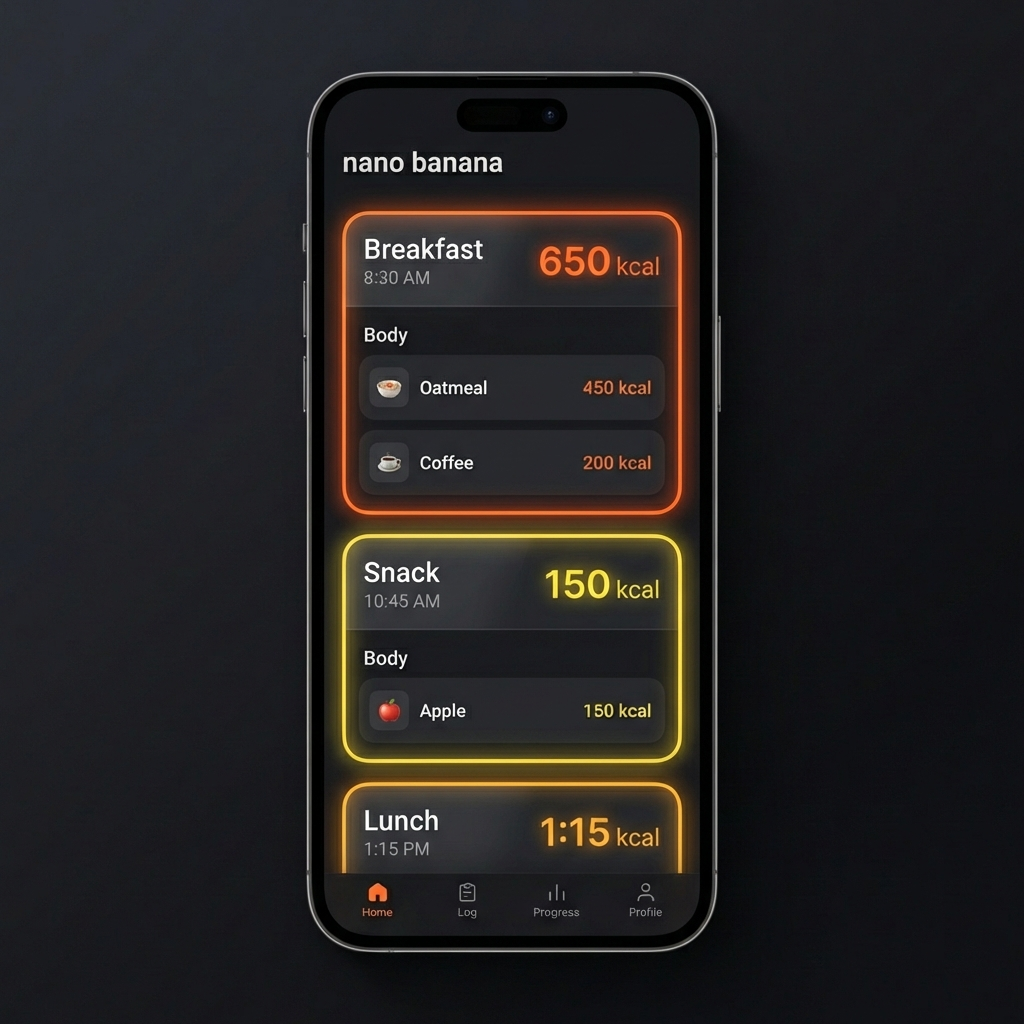
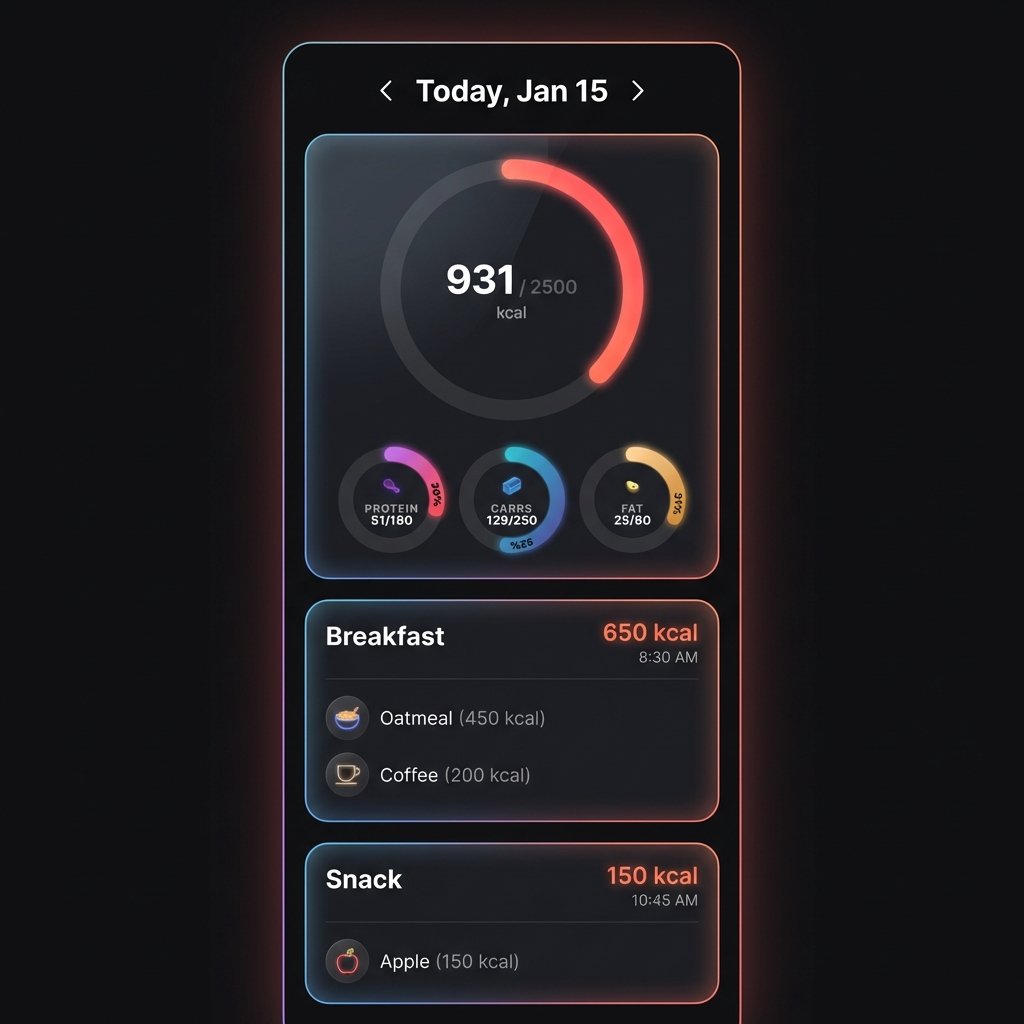
fix(design): revise design and mockup based on feedback

diff --git a/docs/design/GROUPED_LOGGING_UX.md b/docs/design/GROUPED_LOGGING_UX.md
@@ -33,22 +33,39 @@ Logs will be clustered into "Cards" based on type and time.
 
 ## 3. User Interface
 
-### 3.1 The Feed (Cards)
-The main view remains an infinitely scrollable list, but populated by **Activity Cards** instead of raw logs.
+### 3.1 Overview
+The view is a vertical feed anchored by a fixed navigation bar and a summary card.
+
+### 3.2 Navigation & Header
+-   **Top Bar:** A clean navigation bar allowing travel between days.
+    -   `[ < ]` (Previous Day)
+    -   `Current Date` (e.g., "Today, Jan 15") - Tapping opens calendar/view switcher.
+    -   `[ > ]` (Next Day)
+
+### 3.3 Stats Summary Card
+-   **Location:** Fixed at the top of the scrollable feed (or sticky).
+-   **Content:**
+    -   **Primary:** Large "Calories Left" or "Calories Consumed" Ring (Neon Orange).
+    -   **Secondary:** Three smaller rings/bubbles for Protein (Purple), Carbs (Blue), and Fat (Yellow).
+-   **Style:** Glassmorphic container, vibrant neon data points against a dark charcoal background.
+
+### 3.4 The Feed (Activity Cards)
+Below the stats, the list displays **Activity Cards** instead of raw logs.
 
 **Card Layout:**
 1.  **Header:**
     -   **Left:** Activity Name (e.g., "Breakfast", "Snack").
     -   **Right:** Total Calories (e.g., "650 kcal") in vibrant neon orange.
-    -   **Sub-data:** Time / Time Range.
-2.  **Body (Collapsed/Preview):**
-    -   Visual list of items in the group (e.g., "Oatmeal", "Coffee").
-    -   Individual calorie counts for context (muted text).
+    -   **Sub-data:** Start Time.
+2.  **Content List:**
+    -   Clean list of items in the group (e.g., "Oatmeal", "Coffee").
+    -   Individual calorie counts are shown subtly.
+    -   **No "Body" labels or clutter.**
 3.  **Interaction:**
     -   **Tap:** Expands the card or navigates to a "Detail View" to edit/delete individual items.
 
-### 3.2 Visual Mockup
-*Nano Banana Style: a dark, glassmorphic UI with vibrant neon accents.*
+### 3.5 Visual Mockup
+*Revised Nano Banana Style: Dark mode, glassmorphism, stats summary at top.*
 
 ![Grouped Log View](../../design/mockups/grouped_log_view.png)
 
@@ -68,10 +85,6 @@ To handle reviewing multiple days, we introduce specific summary views:
 -   **Month View (Calendar):**
     -   Heatmap style (Green = Hit Goal, Red = Over, Grey = Under).
     -   High-level pattern recognition.
-
-### 4.3 Navigation Pattern
--   Top Bar: `[ < ] [ Today / Date ] [ > ]`
--   Tapping the Date opens a calendar picker / view switcher (Day/Week/Month).
 
 ## 5. Implementation Strategy
 1.  **Refactor Selectors:** Update Redux selectors to implement the grouping logic (4AM split, 30m window).
